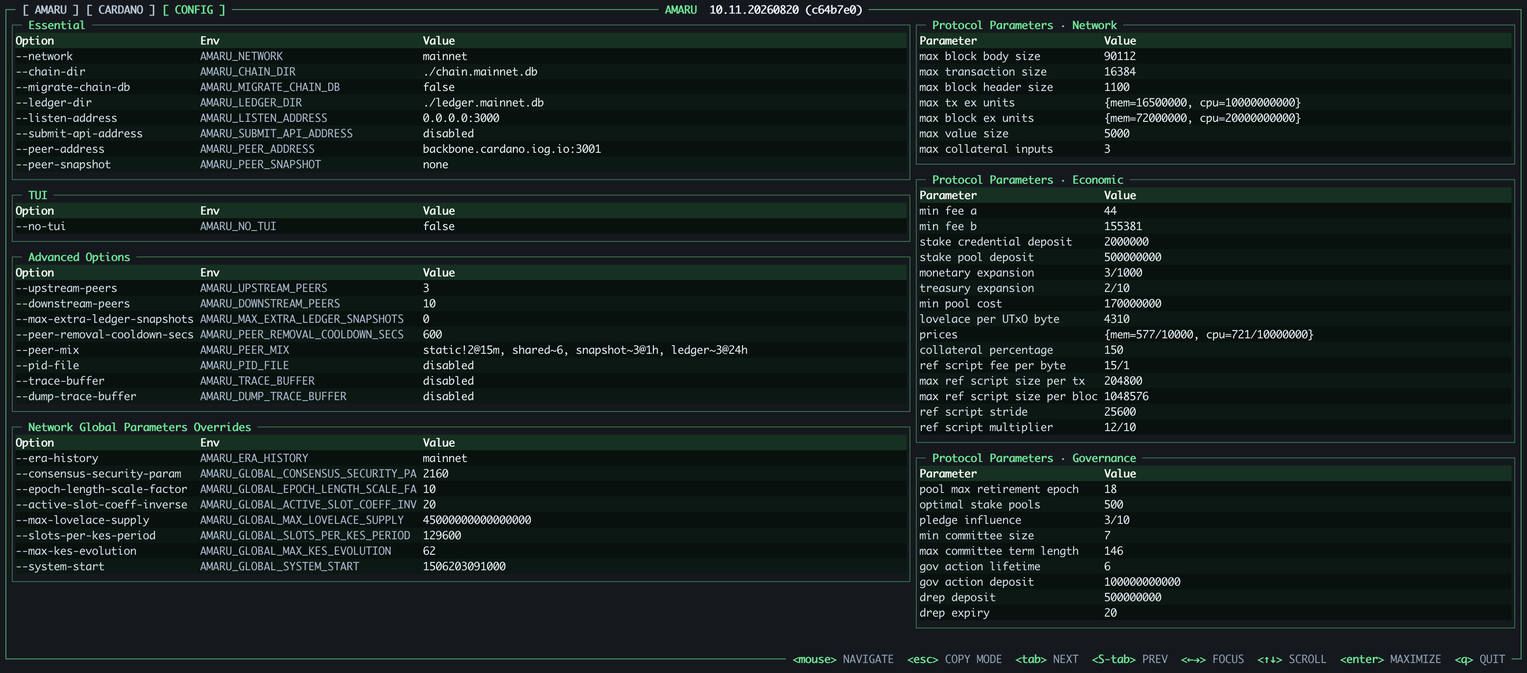
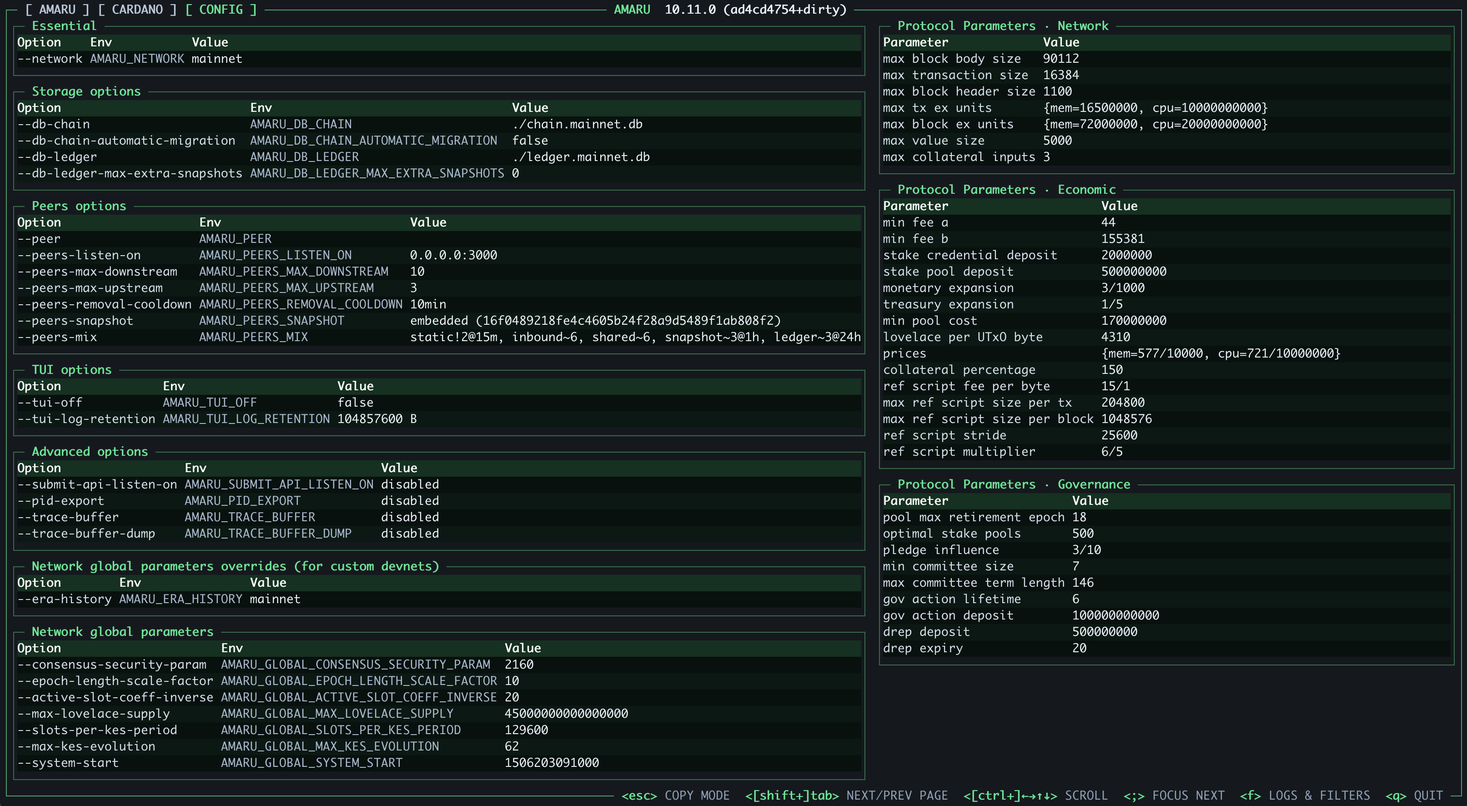
chore: sync user-guide changes

Changed region(s): [[0.0, 0.0, 1.0, 0.9946], [0.806, 0.4351, 0.8989, 0.4973]]

diff --git a/docs/operators/amaru-node/05-amaru-advanced-installation.md b/docs/operators/amaru-node/05-amaru-advanced-installation.md
@@ -48,16 +48,17 @@ Please refer to #Monitoring section to learn how to retrieve logs and metrics wh
 ### The systemd unit (Debian)
 
 - `amaru` user's home is under `/var/lib/amaru` with `nologin`
-- `amaru.service` is installed at `/lib/systemd/system/amaru.service` but **not enabled or started**.
+- `amaru.service` is installed at `/usr/lib/systemd/system/amaru.service` but **not enabled or started**.
+- `amaru-bootstrap.service` is installed at `/usr/lib/systemd/system/amaru-bootstrap.service` but **not enabled or started**.
 - `amaru.env` is installed as `/etc/default/amaru`
 
 ```bash title="/etc/default/amaru"
 AMARU_NETWORK=mainnet
-AMARU_CHAIN_DIR=/var/lib/amaru/chain.mainnet.db
-AMARU_LEDGER_DIR=/var/lib/amaru/ledger.mainnet.db
-AMARU_PEER_ADDRESS=backbone.mainnet.cardanofoundation.org:3001
-AMARU_MIGRATE_CHAIN_DB=true
-AMARU_PID_FILE=/run/amaru/amaru.pid
+AMARU_DB_CHAIN=/var/lib/amaru/chain.mainnet.db
+AMARU_DB_LEDGER=/var/lib/amaru/ledger.mainnet.db
+AMARU_DB_CHAIN_AUTOMATIC_MIGRATION=true
+AMARU_PID_EXPORT=/run/amaru/amaru.pid
+AMARU_WITH_JSON_TRACES=true
 ```
 
 ## 2. Bootstrapping the node
@@ -72,8 +73,16 @@ Also the Amaru user is set to `nologin` for security concerns.
 :::
 
 Amaru bootstraps itself with Mithril-derived snapshots:
+
 ```bash
 sudo -u amaru amaru node bootstrap --network mainnet
+```
+
+Alternatively, you can also run the one-shot bootstrap service:
+
+```bash
+sudo systemctl enable --now amaru-bootstrap.service
+sudo systemctl start amaru-bootstrap
 ```
 
 This downloads a window of pre-generated, Mithril-derived ledger snapshots from Amaru's snapshot bucket and imports them directly into the chain and ledger databases.
@@ -105,9 +114,9 @@ Every `amaru node run` [flag](/docs/operators/amaru-node/amaru-fast-forward/#4-r
 
 ```bash title="/etc/default/amaru"
 [...]
-AMARU_PEER_ADDRESS=backbone.mainnet.cardanofoundation.org:3001,my-own-peer.example.com:3001
-AMARU_LISTEN_ADDRESS=0.0.0.0:3001
-AMARU_UPSTREAM_PEERS=10
+AMARU_PEER=my-own-peer.example.com:3001
+AMARU_PEERS_LISTEN_ON=0.0.0.0:3001
+AMARU_PEERS_MAX_UPSTREAM=10
 AMARU_WITH_OPEN_TELEMETRY=true
 OTEL_METRIC_EXPORT_INTERVAL=1000
 ```
@@ -117,7 +126,7 @@ OTEL_METRIC_EXPORT_INTERVAL=1000
 `OTEL_METRIC_EXPORT_INTERVAL` is the time between two OTLP metrics export (default is [60s](https://opentelemetry.io/docs/specs/otel/configuration/sdk-environment-variables/#periodic-exporting-metricreader), here set to 1s) 
 :::
 
-You can get the full config list with the TUI under the config menu (pressing `ESC` enter copy mode, enabling cursor selection): 
+You can get the full config list with the TUI under the config menu (press `ESC` on the Config page to enter copy mode and select values with the terminal):
 
 ![Amuru_config_TUI.png](img/Amuru_Config_TUI.png)
 
@@ -126,45 +135,52 @@ You can get the full config list with the TUI under the config menu (pressing `E
 ```bash
 ┌─ [ AMARU ] [ CARDANO ] [ CONFIG ] ─────────────────────────────────────────────────────────────────────────────────  COPY MODE  ────────────────────────────────────────────────────────────────────────────────────────────────────────────────┐
 │┌─ Essential ────────────────────────────────────────────────────────────────────────────────────────────────────────────────────────────────────┐┌─ Protocol Parameters · Network ─────────────────────────────────────────────────────────────┐│
-││Option                       Env                                    Value                                                                       ││Parameter                    Value                                                           ││
-││--network                    AMARU_NETWORK                          mainnet                                                                     ││max block body size          90112                                                           ││
-││--chain-dir                  AMARU_CHAIN_DIR                        ./chain.mainnet.db                                                          ││max transaction size         16384                                                           ││
-││--migrate-chain-db           AMARU_MIGRATE_CHAIN_DB                 false                                                                       ││max block header size        1100                                                            ││
-││--ledger-dir                 AMARU_LEDGER_DIR                       ./ledger.mainnet.db                                                         ││max tx ex units              {mem=16500000, cpu=10000000000}                                 ││
-││--listen-address             AMARU_LISTEN_ADDRESS                   0.0.0.0:3000                                                                ││max block ex units           {mem=72000000, cpu=20000000000}                                 ││
-││--submit-api-address         AMARU_SUBMIT_API_ADDRESS               disabled                                                                    ││max value size               5000                                                            ││
-││--peer-address               AMARU_PEER_ADDRESS                     backbone.cardano.iog.io:3001                                                ││max collateral inputs        3                                                               ││
-││--peer-snapshot              AMARU_PEER_SNAPSHOT                    none                                                                        │└─────────────────────────────────────────────────────────────────────────────────────────────┘│
+││Option    Env           Value                                                                                                                   ││Parameter             Value                                                                  ││
+││--network AMARU_NETWORK mainnet                                                                                                                 ││max block body size   90112                                                                  ││
+│└────────────────────────────────────────────────────────────────────────────────────────────────────────────────────────────────────────────────┘│max transaction size  16384                                                                  ││
+│┌─ Storage options ──────────────────────────────────────────────────────────────────────────────────────────────────────────────────────────────┐│max block header size 1100                                                                   ││
+││Option                          Env                                 Value                                                                       ││max tx ex units       {mem=16500000, cpu=10000000000}                                        ││
+││--db-chain                      AMARU_DB_CHAIN                      ./chain.mainnet.db                                                          ││max block ex units    {mem=72000000, cpu=20000000000}                                        ││
+││--db-chain-automatic-migration  AMARU_DB_CHAIN_AUTOMATIC_MIGRATION  false                                                                       ││max value size        5000                                                                   ││
+││--db-ledger                     AMARU_DB_LEDGER                     ./ledger.mainnet.db                                                         ││max collateral inputs 3                                                                      ││
+││--db-ledger-max-extra-snapshots AMARU_DB_LEDGER_MAX_EXTRA_SNAPSHOTS 0                                                                           │└─────────────────────────────────────────────────────────────────────────────────────────────┘│
 │└────────────────────────────────────────────────────────────────────────────────────────────────────────────────────────────────────────────────┘┌─ Protocol Parameters · Economic ────────────────────────────────────────────────────────────┐│
-│┌─ TUI ──────────────────────────────────────────────────────────────────────────────────────────────────────────────────────────────────────────┐│Parameter                    Value                                                           ││
-││Option                       Env                                    Value                                                                       ││min fee a                    44                                                              ││
-││--no-tui                     AMARU_NO_TUI                           false                                                                       ││min fee b                    155381                                                          ││
-│└────────────────────────────────────────────────────────────────────────────────────────────────────────────────────────────────────────────────┘│stake credential deposit     2000000                                                         ││
-│┌─ Advanced Options ─────────────────────────────────────────────────────────────────────────────────────────────────────────────────────────────┐│stake pool deposit           500000000                                                       ││
-││Option                       Env                                    Value                                                                       ││monetary expansion           3/1000                                                          ││
-││--upstream-peers             AMARU_UPSTREAM_PEERS                   3                                                                           ││treasury expansion           2/10                                                            ││
-││--downstream-peers           AMARU_DOWNSTREAM_PEERS                 10                                                                          ││min pool cost                170000000                                                       ││
-││--max-extra-ledger-snapshots AMARU_MAX_EXTRA_LEDGER_SNAPSHOTS       0                                                                           ││lovelace per UTxO byte       4310                                                            ││
-││--peer-removal-cooldown-secs AMARU_PEER_REMOVAL_COOLDOWN_SECS       600                                                                         ││prices                       {mem=577/10000, cpu=721/10000000}                               ││
-││--peer-mix                   AMARU_PEER_MIX                         static!2@15m, shared~6, snapshot~3@1h, ledger~3@24h                         ││collateral percentage        150                                                             ││
-││--pid-file                   AMARU_PID_FILE                         disabled                                                                    ││ref script fee per byte      15/1                                                            ││
-││--trace-buffer               AMARU_TRACE_BUFFER                     disabled                                                                    ││max ref script size per tx   204800                                                          ││
-││--dump-trace-buffer          AMARU_DUMP_TRACE_BUFFER                disabled                                                                    ││max ref script size per bloc 1048576                                                         ││
-│└────────────────────────────────────────────────────────────────────────────────────────────────────────────────────────────────────────────────┘│ref script stride            25600                                                           ││
-│┌─ Network Global Parameters Overrides ──────────────────────────────────────────────────────────────────────────────────────────────────────────┐│ref script multiplier        12/10                                                           ││
-││Option                       Env                                    Value                                                                       │└─────────────────────────────────────────────────────────────────────────────────────────────┘│
-││--era-history                AMARU_ERA_HISTORY                      mainnet                                                                     │┌─ Protocol Parameters · Governance ──────────────────────────────────────────────────────────┐│
-││--consensus-security-param   AMARU_GLOBAL_CONSENSUS_SECURITY_PARAM  2160                                                                        ││Parameter                    Value                                                           ││
-││--epoch-length-scale-factor  AMARU_GLOBAL_EPOCH_LENGTH_SCALE_FACTOR 10                                                                          ││pool max retirement epoch    18                                                              ││
-││--active-slot-coeff-inverse  AMARU_GLOBAL_ACTIVE_SLOT_COEFF_INVERSE 20                                                                          ││optimal stake pools          500                                                             ││
-││--max-lovelace-supply        AMARU_GLOBAL_MAX_LOVELACE_SUPPLY       45000000000000000                                                           ││pledge influence             3/10                                                            ││
-││--slots-per-kes-period       AMARU_GLOBAL_SLOTS_PER_KES_PERIOD      129600                                                                      ││min committee size           7                                                               ││
-││--max-kes-evolution          AMARU_GLOBAL_MAX_KES_EVOLUTION         62                                                                          ││max committee term length    146                                                             ││
-││--system-start               AMARU_GLOBAL_SYSTEM_START              1506203091000                                                               ││gov action lifetime          6                                                               ││
-│└────────────────────────────────────────────────────────────────────────────────────────────────────────────────────────────────────────────────┘│gov action deposit           100000000000                                                    ││
-│                                                                                                                                                  │drep deposit                 500000000                                                       ││
-│                                                                                                                                                  │drep expiry                  20                                                              ││
-│                                                                                                                                                  └─────────────────────────────────────────────────────────────────────────────────────────────┘│
+│┌─ Peers options ────────────────────────────────────────────────────────────────────────────────────────────────────────────────────────────────┐│Parameter                     Value                                                          ││
+││Option                   Env                          Value                                                                                     ││min fee a                     44                                                             ││
+││--peer                   AMARU_PEER                                                                                                             ││min fee b                     155381                                                         ││
+││--peers-listen-on        AMARU_PEERS_LISTEN_ON        0.0.0.0:3000                                                                              ││stake credential deposit      2000000                                                        ││
+││--peers-max-downstream   AMARU_PEERS_MAX_DOWNSTREAM   10                                                                                        ││stake pool deposit            500000000                                                      ││
+││--peers-max-upstream     AMARU_PEERS_MAX_UPSTREAM     3                                                                                         ││monetary expansion            3/1000                                                         ││
+││--peers-removal-cooldown AMARU_PEERS_REMOVAL_COOLDOWN 10min                                                                                     ││treasury expansion            1/5                                                            ││
+││--peers-snapshot         AMARU_PEERS_SNAPSHOT         embedded (16f0489218fe4c4605b24f28a9d5489f1ab808f2)                                       ││min pool cost                 170000000                                                      ││
+││--peers-mix              AMARU_PEERS_MIX              static!2@15m, inbound~6, shared~6, snapshot~3@1h, ledger~3@24h                            ││lovelace per UTxO byte        4310                                                           ││
+│└────────────────────────────────────────────────────────────────────────────────────────────────────────────────────────────────────────────────┘│prices                        {mem=577/10000, cpu=721/10000000}                              ││
+│┌─ TUI options ──────────────────────────────────────────────────────────────────────────────────────────────────────────────────────────────────┐│collateral percentage         150                                                            ││
+││Option              Env                     Value                                                                                               ││ref script fee per byte       15/1                                                           ││
+││--tui-off           AMARU_TUI_OFF           false                                                                                               ││max ref script size per tx    204800                                                         ││
+││--tui-log-retention AMARU_TUI_LOG_RETENTION 104857600 B                                                                                         ││max ref script size per block 1048576                                                        ││
+│└────────────────────────────────────────────────────────────────────────────────────────────────────────────────────────────────────────────────┘│ref script stride             25600                                                          ││
+│┌─ Advanced options ─────────────────────────────────────────────────────────────────────────────────────────────────────────────────────────────┐│ref script multiplier         6/5                                                            ││
+││Option                 Env                        Value                                                                                         │└─────────────────────────────────────────────────────────────────────────────────────────────┘│
+││--submit-api-listen-on AMARU_SUBMIT_API_LISTEN_ON disabled                                                                                      │┌─ Protocol Parameters · Governance ──────────────────────────────────────────────────────────┐│
+││--pid-export           AMARU_PID_EXPORT           disabled                                                                                      ││Parameter                 Value                                                              ││
+││--trace-buffer         AMARU_TRACE_BUFFER         disabled                                                                                      ││pool max retirement epoch 18                                                                 ││
+││--trace-buffer-dump    AMARU_TRACE_BUFFER_DUMP    disabled                                                                                      ││optimal stake pools       500                                                                ││
+│└────────────────────────────────────────────────────────────────────────────────────────────────────────────────────────────────────────────────┘│pledge influence          3/10                                                               ││
+│┌─ Network global parameters overrides (for custom devnets) ─────────────────────────────────────────────────────────────────────────────────────┐│min committee size        7                                                                  ││
+││Option        Env               Value                                                                                                           ││max committee term length 146                                                                ││
+││--era-history AMARU_ERA_HISTORY mainnet                                                                                                         ││gov action lifetime       6                                                                  ││
+│└────────────────────────────────────────────────────────────────────────────────────────────────────────────────────────────────────────────────┘│gov action deposit        100000000000                                                       ││
+│┌─ Network global parameters ────────────────────────────────────────────────────────────────────────────────────────────────────────────────────┐│drep deposit              500000000                                                          ││
+││Option                      Env                                    Value                                                                        ││drep expiry               20                                                                 ││
+││--consensus-security-param  AMARU_GLOBAL_CONSENSUS_SECURITY_PARAM  2160                                                                         │└─────────────────────────────────────────────────────────────────────────────────────────────┘│
+││--epoch-length-scale-factor AMARU_GLOBAL_EPOCH_LENGTH_SCALE_FACTOR 10                                                                           │                                                                                               │
+││--active-slot-coeff-inverse AMARU_GLOBAL_ACTIVE_SLOT_COEFF_INVERSE 20                                                                           │                                                                                               │
+││--max-lovelace-supply       AMARU_GLOBAL_MAX_LOVELACE_SUPPLY       45000000000000000                                                            │                                                                                               │
+││--slots-per-kes-period      AMARU_GLOBAL_SLOTS_PER_KES_PERIOD      129600                                                                       │                                                                                               │
+││--max-kes-evolution         AMARU_GLOBAL_MAX_KES_EVOLUTION         62                                                                           │                                                                                               │
+││--system-start              AMARU_GLOBAL_SYSTEM_START              1506203091000                                                                │                                                                                               │
+│└────────────────────────────────────────────────────────────────────────────────────────────────────────────────────────────────────────────────┘                                                                                               │
 │                                                                                                                                                                                                                                                 │
 └───────────────────────────────────────────────────────────────────────────────────────────────────────────────────────────────────────────────────────────────────────────────────────────────────────────────────────────── <esc> NORMAL MODE ─┘
 ```
@@ -302,7 +318,7 @@ cardano_node_metrics_slotInEpoch_int  153412
 
 ### Submitting a transaction
 
-Start the node with `--submit-api-address` or `AMARU_SUBMIT_API_ADDRESS`, then `POST` the CBOR-encoded transaction:
+Start the node with `--submit-api-listen-on` or `AMARU_SUBMIT_API_LISTEN_ON`, then `POST` the CBOR-encoded transaction:
 
 ```bash
 curl -X POST \
@@ -325,11 +341,11 @@ run `systemctl restart amaru.service` afterwards.
 - **Homebrew / Nix** — `brew upgrade amaru` / re-run the `nix profile install` command with the new ref.
 
 :::note
-The packaged systemd service sets `AMARU_MIGRATE_CHAIN_DB=true` (`/etc/default/amaru`) so Amaru migrates the on-disk chain database schema forward automatically on upgrade rather than requiring a manual wipe and re-bootstrap.
-Best practice is to back up `--chain-dir`/`--ledger-dir` before upgrading across a version that mentions ledger or chain database format changes in its release notes, so you can roll back if needed.
+The packaged systemd service sets `AMARU_DB_CHAIN_AUTOMATIC_MIGRATION=true` (`/etc/default/amaru`) so Amaru migrates the on-disk chain database schema forward automatically on upgrade rather than requiring a manual wipe and re-bootstrap.
+Best practice is to back up `--db-chain`/`--db-ledger` before upgrading across a version that mentions ledger or chain database format changes in its release notes, so you can roll back if needed.
 :::
 
 :::warning
-When using the CLI directly, `AMARU_MIGRATE_CHAIN_DB` defaults to `false`, so if a db migration is needed, Amaru won't start and will ask to use `--migrate-chain-db` in order to perform the upgrade. 
+When using the CLI directly, `AMARU_DB_CHAIN_AUTOMATIC_MIGRATION` defaults to `false`, so if a db migration is needed, Amaru won't start and will ask to use `--db-chain-automatic-migration` in order to perform the upgrade.
 :::
 

diff --git a/docs/operators/amaru-node/01-amaru-fast-forward.md b/docs/operators/amaru-node/01-amaru-fast-forward.md
@@ -29,7 +29,7 @@ Pick whichever method fits your environment:
 <details>
 <summary><strong>Release Binaries</strong> — pre-compiled executables</summary>
 
-Statically-linked executables for Linux, macOS, and Windows, with shell completion scripts, are attached to every [release](https://github.com/pragma-org/amaru/releases) and [nightly build](https://pragma-org.github.io/amaru/). Download the archive for your platform and put the `amaru` binary on your `$PATH`.
+Statically-linked executables for Linux, macOS, and Windows, with shell completion scripts, are attached to every [release](https://github.com/pragma-org/amaru/releases) and [nightly build](https://nightly.amaru.global/). Download the archive for your platform and put the `amaru` binary on your `$PATH`.
 
 </details>
 
@@ -140,16 +140,16 @@ amaru node run --network preprod
 | Flag | Description                                                                       |
 |------|-----------------------------------------------------------------------------------|
 | `--network` | Network to run on: `mainnet`, `preprod`, `preview`, or a custom `testnet_<magic>` |
-| `--chain-dir` | Directory for the chain database (defaults to `./chain.<network>.db`)             |
-| `--ledger-dir` | Directory for the ledger database (defaults to `./ledger.<network>.db`)           |
-| `--listen-address` | Address to accept incoming peer connections on (default `0.0.0.0:3000`)           |
-| `--peer-address` | Upstream peer(s) to sync from; repeatable or comma-separated                      |
-| `--upstream-peers` | Maximum number of upstream (outbound) peers Amaru maintains at once (default `3`) |
-| `--submit-api-address` | If set, exposes an HTTP `POST /api/submit/tx` endpoint for transaction submission |
+| `--db-chain` | Directory for the chain database (defaults to `./chain.<network>.db`)             |
+| `--db-ledger` | Directory for the ledger database (defaults to `./ledger.<network>.db`)           |
+| `--peers-listen-on` | Address to accept incoming peer connections on (default `0.0.0.0:3000`)           |
+| `--peer` | Upstream peer(s) to sync from; repeatable or comma-separated                      |
+| `--peers-max-upstream` | Maximum number of upstream (outbound) peers Amaru maintains at once (default `3`) |
+| `--submit-api-listen-on` | If set, exposes an HTTP `POST /api/submit/tx` endpoint for transaction submission |
 
 For the full list of options run `amaru node run --help`.
 
-Unless `--no-tui` is passed (or stdout isn't a terminal), `amaru node run` opens an embedded terminal dashboard showing sync progress, peers, and logs live, that's the quickest way to confirm the node is catching up to the tip. See [The Amaru TUI](/docs/operators/amaru-node/amaru-tui) for a full tour of what it shows.
+Unless `--tui-off` is passed (or stdout isn't a terminal), `amaru node run` opens an embedded terminal dashboard showing sync progress, peers, and logs live, that's the quickest way to confirm the node is catching up to the tip. See [The Amaru TUI](/docs/operators/amaru-node/amaru-tui) for a full tour of what it shows.
 
 ![img](img/Amaru_Syncing_TUI.png)
 

diff --git a/docs/operators/amaru-node/00-amaru-user-guide.md b/docs/operators/amaru-node/00-amaru-user-guide.md
@@ -9,9 +9,9 @@ description: A structured guide to installing, configuring, running, and maintai
 
 This guide is built with the same Docusaurus setup and conventions as [developers.cardano.org/docs/operators](https://developers.cardano.org/docs/operators/), since parts of it are expected to be merged into that site at some point. Starting from the same template now means less rework when that happens.  
 
-:::important Scope: Amaru is a relay node today
-Amaru does **not** yet support block production, there is no key generation, KES/VRF/operational-certificate handling, or stake pool registration. 
-Track Block Producing support on the [Amaru roadmap](https://github.com/orgs/pragma-org/projects/3).
+:::important Scope: block production is a testnet trial
+On preprod, preview, and other testnets, `amaru node run` forges blocks when given a cardano-cli KES signing key, VRF signing key, and operational certificate. Mainnet refuses those flags. With no key files the node is a follower. There is no key generation or stake pool registration.
+Track further block-producing support on the [Amaru roadmap](https://github.com/orgs/pragma-org/projects/3).
 
 :::
 

diff --git a/docs/operators/amaru-node/02-amaru-tui.md b/docs/operators/amaru-node/02-amaru-tui.md
@@ -85,7 +85,7 @@ These apply across all three tabs:
 | Key | Action                                                                |
 |-----|-----------------------------------------------------------------------|
 | Mouse | Navigate between panels                                               |
-| `Esc` | Enter copy mode (enables cursor selection, e.g. to copy config values) |
+| `Esc` | Enter copy mode. On log pages, click a line then click another to mark a time range (a later click moves the nearer end; drag also works); `e` writes the currently visible lines in that range (or every visible line if nothing is selected) to a file in the working directory. On the Config page, copy mode still allows native text selection. |
 | `Tab` / `Shift+Tab` | Focus next / previous panel                                           |
 | `←` `→` | Move focus within a panel                                             |
 | `↑` `↓` | Scroll the focused panel                                              |

diff --git a/docs/operators/amaru-node/04-amaru-advanced-hardening.md b/docs/operators/amaru-node/04-amaru-advanced-hardening.md
@@ -106,6 +106,10 @@ table inet filter {
         # ct state established, related accept
         # ct state invalid drop
         
+        # Allow Docker containers outbound connections
+        # (e.g. Traefik asking for cert renewal)
+        # ip saddr 172.16.0.0/12 accept
+        
         # If you need to access your grafana dashboard 
         # Which is published on "80:3000"
         # You need to Allow forward traffic to :3000
